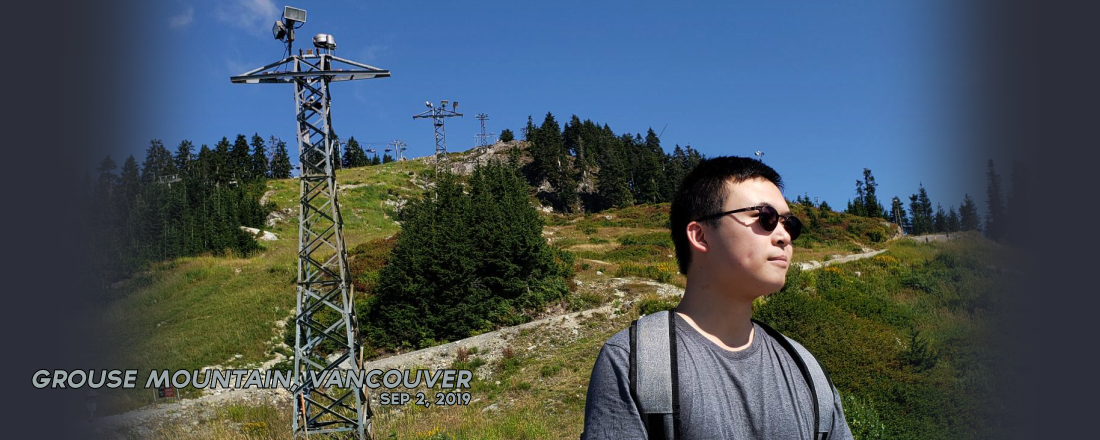
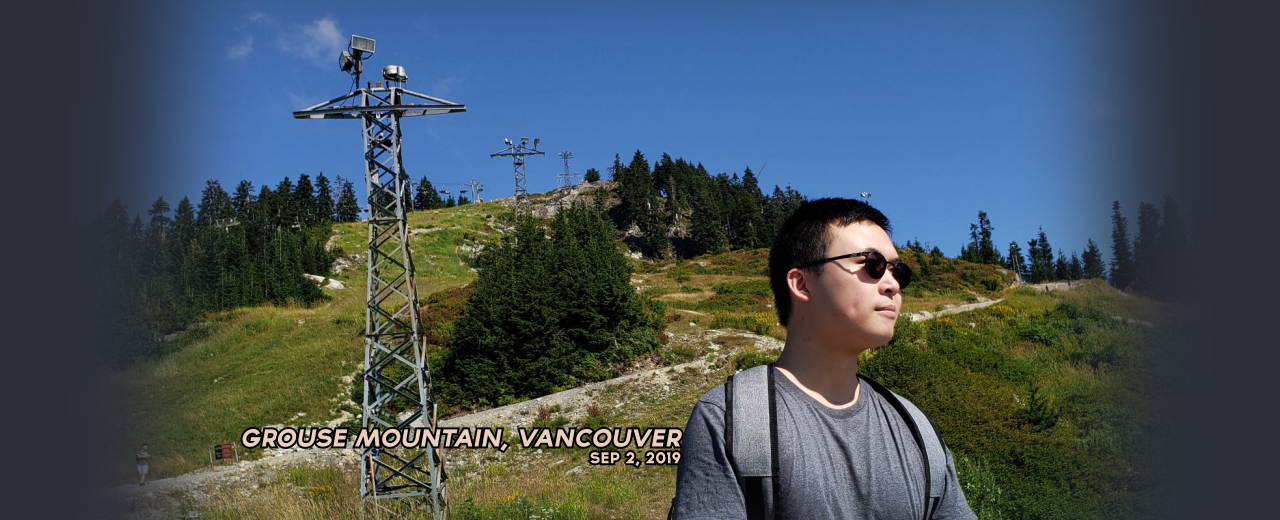
update media for introduction

diff --git a/src/components/homepage/Introduction.js b/src/components/homepage/Introduction.js
@@ -5,6 +5,7 @@ import IntroductionDescription from './IntroductionDescription';
 
 import '../../stylesheets/homepage/Introduction.css';
 import grouseMountainIntroPhoto from '../../images/introduction/introduction_photo_grouse.png';
+import bbqIntroPhoto from '../../images/introduction/introduction_photo_bbq.png';
 import garibaldiIntroPhoto from '../../images/introduction/introduction_photo_garibaldi.png';
 import griffintownIntroPhoto from '../../images/introduction/introduction_photo_griff.png';
 import fireworksIntroPhoto from '../../images/introduction/introduction_photo_fireworks.png';
@@ -16,6 +17,9 @@ export class Introduction extends Component {
       { // play slideshow in this order 
         id: "grouse_photo",
         src: grouseMountainIntroPhoto
+      }, {
+        id: "bbq_photo",
+        src: bbqIntroPhoto
       }, {
         id: "garibaldi_photo",
         src: garibaldiIntroPhoto
